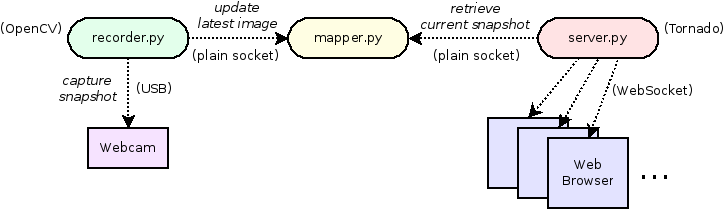
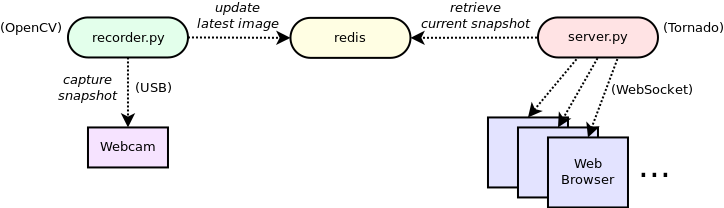
Replace custom mapper with Redis database.

diff --git a/server.py b/server.py
@@ -1,45 +1,36 @@
 """
-Serve webcam images (from a remote socket dictionary server)
-using Tornado (to a WebSocket browser client.)
-
+Serve webcam images from a Redis store using Tornado.
 Usage:
-
-   python server.py <host> <port>
-
+   python server.py
 """
 
-# Import standard modules.
-import sys
 import base64
 import StringIO
+import sys
 
-# Import 3rd-party modules.
-from tornado import websocket, web, ioloop
-import numpy
 import coils
+import numpy
+import redis
+from tornado import websocket, web, ioloop
 
-# Retrieve command line arguments.
-host = sys.argv[1]
-port = int(sys.argv[2])
 
 class IndexHandler(web.RequestHandler):
     def get(self):
         self.render('index.html')
 
 class SocketHandler(websocket.WebSocketHandler):
+    """ Handler for websocket queries. """
+    
     def __init__(self, *args, **kwargs):
+        """ Initialize the Redis store and framerate monitor. """
         super(SocketHandler, self).__init__(*args, **kwargs)
-
-        # Client to the socket server.
-        self._map_client = coils.MapSockClient(host, port, encode=False)
-
-        # Monitor the framerate at 1s, 5s, 10s intervals.
+        self._store = redis.Redis()
         self._fps = coils.RateTicker((1,5,10))
 
     def on_message(self, message):
-        response = self._map_client.send(coils.MapSockRequest('get', 'image'))
-        sio = StringIO.StringIO(response)
-        image = numpy.load(sio)
+        image = self._store.get('image')
+        image = StringIO.StringIO(image)
+        image = numpy.load(image)
         image = base64.b64encode(image)
         self.write_message(image)
 

diff --git a/recorder.py b/recorder.py
@@ -1,31 +1,25 @@
 """
-Continuously capture images from a webcam
-and update a socket dictionary server with the current snapshot.
-
+Continuously capture images from a webcam and write to a Redis store.
 Usage:
-
-   python recorder.py <host> <port> [<width>] [<height>]
-
+   python recorder.py [width] [height]
 """
 
-# Import standard modules.
-import sys
 import StringIO
+import sys
 
-# Import third-party modules.
-import numpy
-import cv2
 import coils
+import cv2
+import numpy
+import redis
+
 
 # Retrieve command line arguments.
-host = sys.argv[1]
-port = int(sys.argv[2])
-width = None if len(sys.argv) <= 3 else int(sys.argv[3])
-height = None if len(sys.argv) <= 4 else int(sys.argv[4])
+width = None if len(sys.argv) <= 1 else int(sys.argv[1])
+height = None if len(sys.argv) <= 2 else int(sys.argv[2])
 
-# Create video capture object and socket client.
+# Create video capture object and client to the Redis store.
 cap = cv2.VideoCapture(-1)
-map_client = coils.MapSockClient(host, port, encode=False)
+store = redis.Redis()
 
 # Set video dimensions, if given.
 if width: cap.set(3, width)
@@ -46,12 +40,7 @@ while True:
     sio = StringIO.StringIO()
     numpy.save(sio, image)
     value = sio.getvalue()
-    request = coils.MapSockRequest(
-        'set',
-        'image',
-        value,
-        )
-    response = map_client.send(request)
+    store.set('image', value)
 
     # Print the framerate.
     text = '{:.2f}, {:.2f}, {:.2f} fps'.format(*fps.tick())

diff --git a/README.rst b/README.rst
@@ -8,13 +8,12 @@ Details
 -------
 
 The code runs a *recorder* process that continuously reads images
-from the webcam. Upon every capture it updates the *mapper*, a tiny
-local storage server which keeps the latest captured image
-in memory. The *mapper* is accessible via plain socket interface.
+from the webcam. Upon every capture it writes the image to a Redis
+key-value store.
 
 Separately, a *server* process (running Tornado) handles websocket messages. 
 Upon receiving a request message (sent from *client* web browser)
-it connects to the *mapper*, retrieves latest image and sends it 
+it retrieves the latest image from the Redis database and sends it 
 to the *client* over websocket connection.
 
 .. image:: https://raw.github.com/vmlaker/hello-websocket/master/diagram.png
@@ -34,7 +33,12 @@ it system-wide. (Later below, *make* will manually pull the library
 into the virtual environment):
 ::
 
-   yum install opencv-python
+   apt-get install python-opencv
+
+Also install Redis server:
+::
+
+   apt-get install redis-server
 
 Now go ahead and grab the source code repo:
 ::
@@ -50,25 +54,18 @@ Build the virtual environment with all needed modules:
 Usage
 -----
 
-There are three separate programs that need to be running:
+There are two separate programs that need to be running:
 
-#. *mapper* - a lightweight server that keeps the current captured 
-   image in memory and serves it to multiple local clients.
-#. *recorder* - webcam capture process that feeds the *mapper*.
+#. *recorder* - webcam capture process that writes to Redis database.
 #. *server* - the Tornado server which reads current image from 
-   the *mapper* and serves to requesting WebSocket clients.
+   the Redis database and serves to requesting WebSocket clients.
 
-First run the *mapper*:
-::
-
-   make mapper
-
-Now (in a different shell) run the *recorder*:
+First run the *recorder*:
 ::
 
    make recorder
 
-Finally (in a third shell) run the *server*:
+Now (in a different shell) run the *server*:
 ::
 
    make server
@@ -80,8 +77,8 @@ systemd services
 
 If your O/S has 
 `systemd <http://freedesktop.org/wiki/Software/systemd>`_
-(e.g. Fedora), you have the option of installing 
-*mapper*, *recorder* and *server* as systemd services.
+you have the option of installing 
+*recorder* and *server* as systemd services.
 Begin by customizing settings in file ``systemd/hello.conf``.
 Then, from the project root directory, generate your service files:
 ::
@@ -93,8 +90,8 @@ Install your newly-created services into your systemd location:
 
    sudo cp `pwd`/systemd/*.service /usr/lib/systemd/system/
 
-You can now start all three services by starting the *server*
-(*mapper* and *recorder* are dependencies, and will start automatically):
+You can now start the two services by starting the *server*
+(*recorder* is a dependency, and will start automatically):
 ::
 
    sudo systemctl start hws-server
